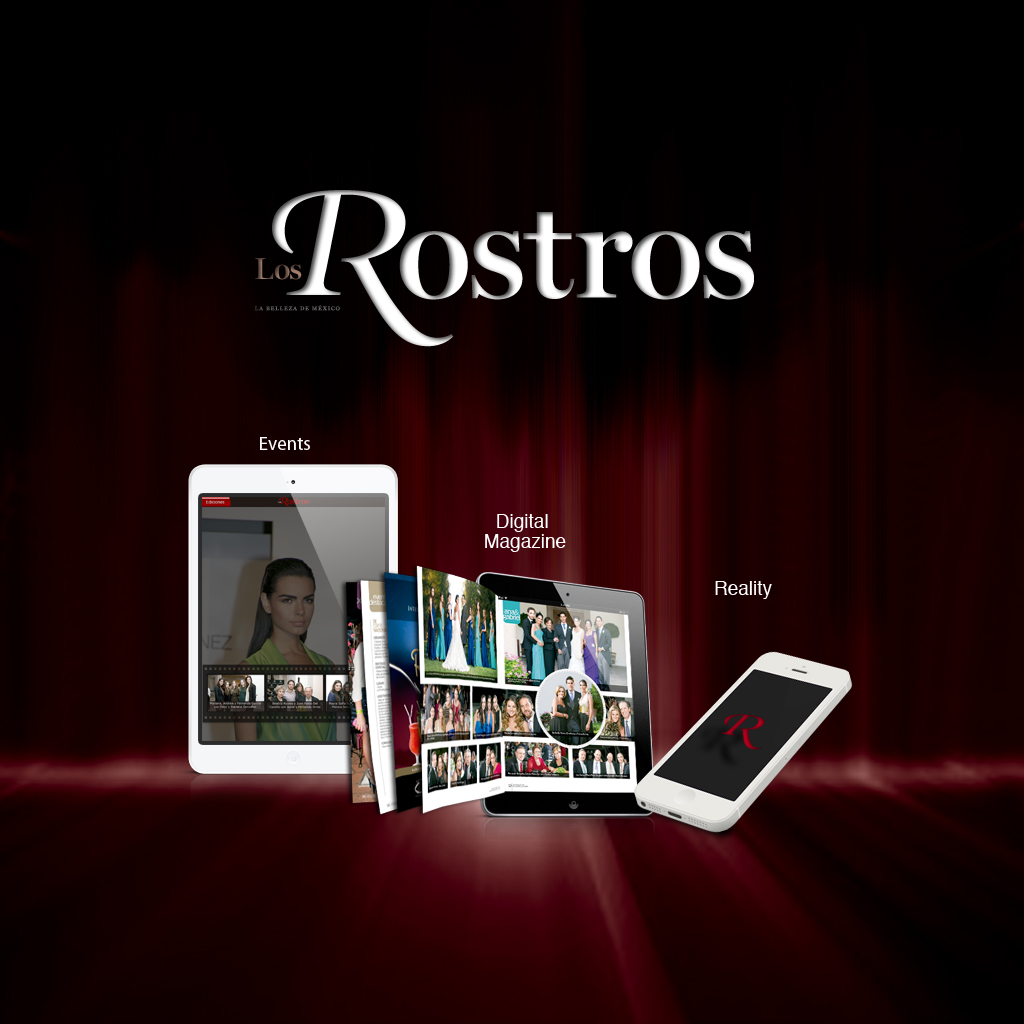
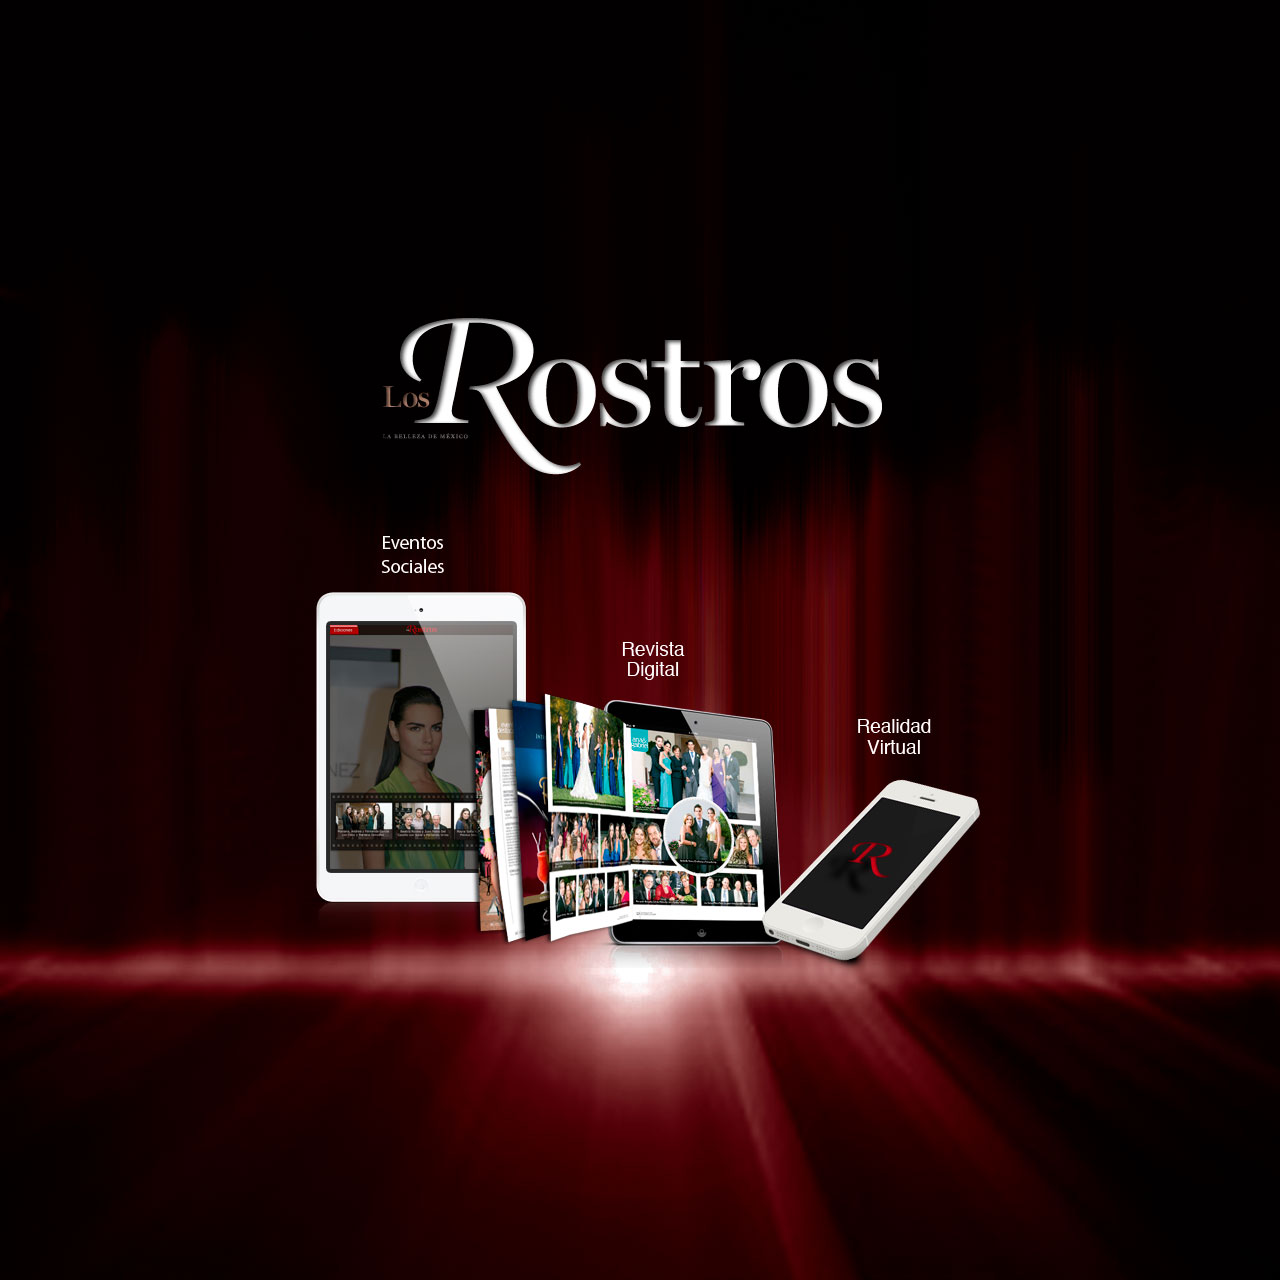
menu

Changed region(s): [[0.1562, 0.4062, 0.8438, 0.8438], [0.25, 0.1875, 0.75, 0.375]]

diff --git a/css/css.css b/css/css.css
@@ -1,63 +1,32 @@
 
-@media screen and (min-width: 0px) and (max-width: 768px) {
+@media screen and (min-width: 0px) and (max-width: 800px) {
 #menu_inicial
 {
-	/*background:#666;*/
-}	
+	background:#666;}	
 #menu_inicial img
-{margin-left:-128px;}
-/*links*/
+{margin-left:-240px;}
+
 #link_menu
 {
 	z-index:3;
 	position:absolute;
-	top:82%;
+	top:50%;
 	left:50%;
-	width:626px;
-	margin-left:-313px;
+	width:620px;
 	height:350px;
-	margin-top:-375px;
-	/*background:#FFF;*/
+	margin-left:-310px;
+	margin-top:300px;
+	background:#FFF;
 }
-/*#events
-{
-	width:25%;
-	height:89%;
-	background:#666;
-	float:left;
-	z-index:3;
-}
-#d_magazine
-{
-	width:46%;
-	height:64%;
-	margin-top:20.1%;
-	background:#93C;
-	z-index:3;
-	float:left;
-}
-#reality
-{
-	width:29%;
-	height:40%;
-	margin-top:33.5%;
-	background:#036;
-	z-index:3;
-	float:left;
-}*/
 
 }
-@media screen and (min-width: 769px) and (max-width: 1024px) {
+@media screen and (min-width: 801px) and (max-width: 1280px) {
 #menu_inicial
 {
-	background:#666;
 }	
 #menu_inicial img
-{margin-top:-128px;}
-.img_menu_inicial
-{
-	background:url(../img/menu.jpg);
-}
+{margin-top:-240px;}
+
 
 /*links*/
 #link_menu
@@ -85,12 +54,14 @@ a{
 	position:fixed;
 	background:#000;
 }
+
 #events
 {
 	width:25%;
 	height:89%;
 	float:left;
 	z-index:3;
+	background:#999;
 }
 #d_magazine
 {
@@ -99,6 +70,7 @@ a{
 	margin-top:20.1%;
 	z-index:3;
 	float:left;
+	background:#F90;
 }
 #reality
 {
@@ -107,6 +79,7 @@ a{
 	margin-top:33.5%;
 	z-index:3;
 	float:left;
+	background:#C39;
 }
 
 

diff --git a/index.html b/index.html
@@ -40,7 +40,7 @@
 
 <div data-role="page" id="page">
 	<div data-role="content" style="width:100%; height:100%;">
-    	<div align="center" id="menu_inicial" style="width:100%; height:100%; position:absolute; overflow:hidden ">
+    	<div align="center" id="menu_inicial" style="width:800px; height:1280px; position:absolute; overflow:hidden;">
 		 <img src="img/menu.jpg">
         </div>
         	<div id="link_menu">
